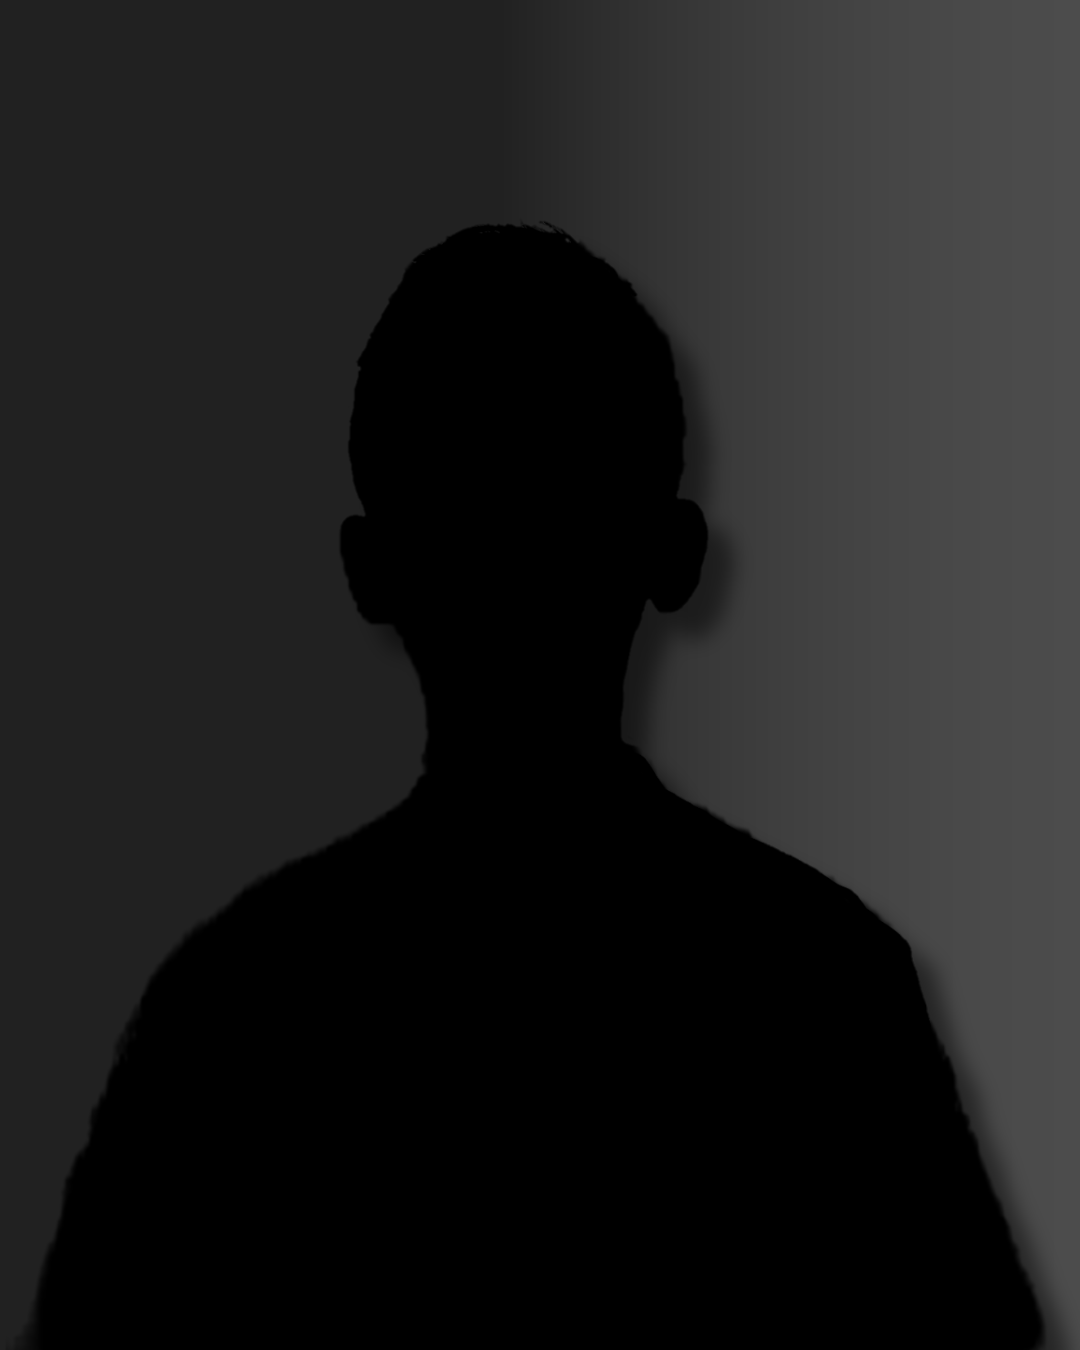
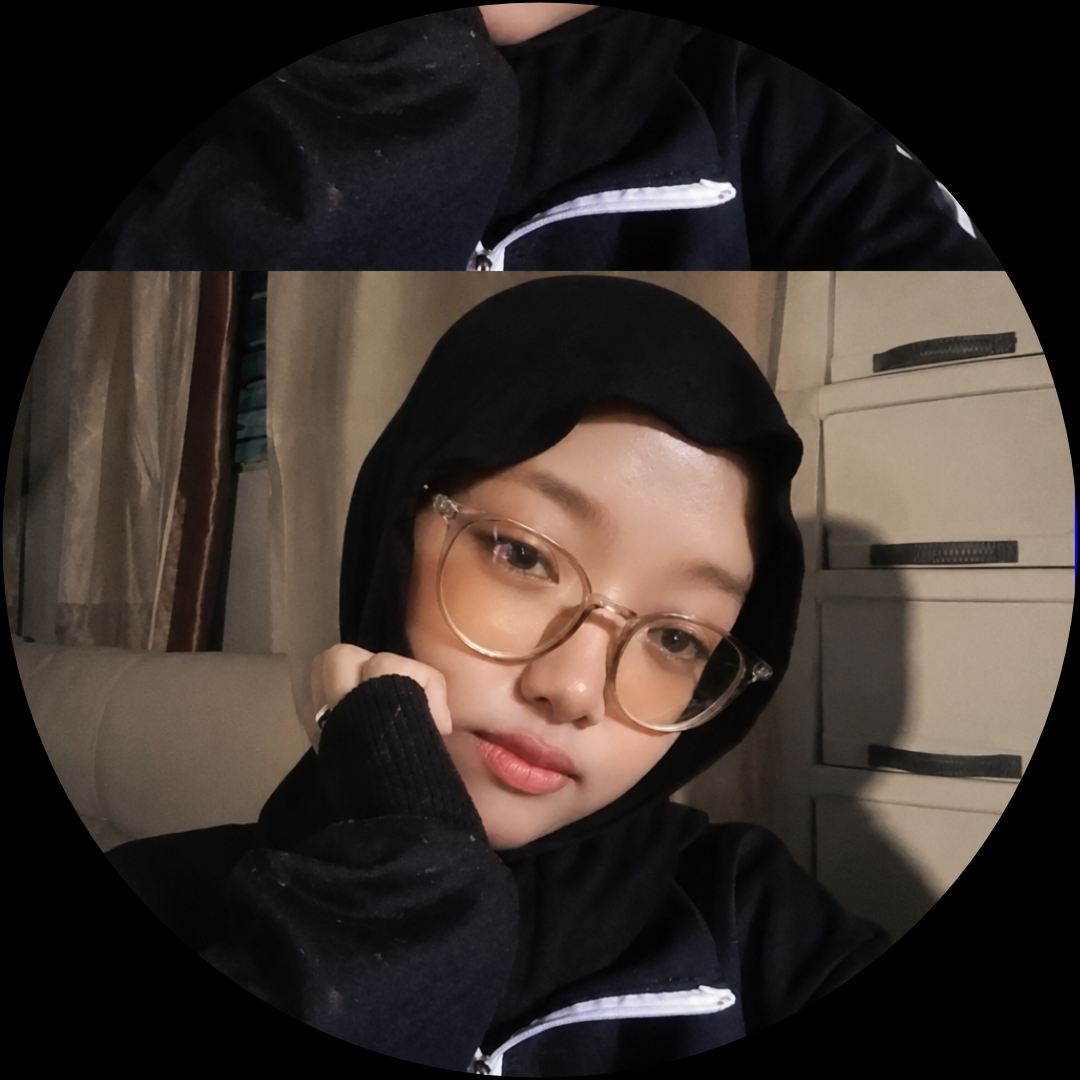
update foto about

diff --git a/src/Pages/About.jsx b/src/Pages/About.jsx
@@ -52,7 +52,7 @@ const ProfileImage = memo(() => (
           <div className="absolute inset-0 bg-gradient-to-t from-purple-500/20 via-transparent to-blue-500/20 z-10 opacity-0 group-hover:opacity-100 transition-opacity duration-700 hidden sm:block" />
 
           <img
-            src="/aya.jpg"
+            src="/Photo.jpg"
             alt="Profile"
             className="w-full h-full object-cover transition-all duration-700 group-hover:scale-110 group-hover:rotate-2"
             loading="lazy"

diff --git a/index.html b/index.html
@@ -4,7 +4,7 @@
     <!-- Basic -->
     <meta charset="UTF-8" />
     <meta name="viewport" content="width=device-width, initial-scale=1.0" />
-    <link rel="icon" type="image/png" href="/aya.jpg" />
+    <link rel="icon" type="image/png" href="/Photo.jpg" />
     <!-- preload Google Font -->
     <link rel="preconnect" href="https://fonts.googleapis.com" />
     <link rel="preconnect" href="https://fonts.gstatic.com" crossorigin />
